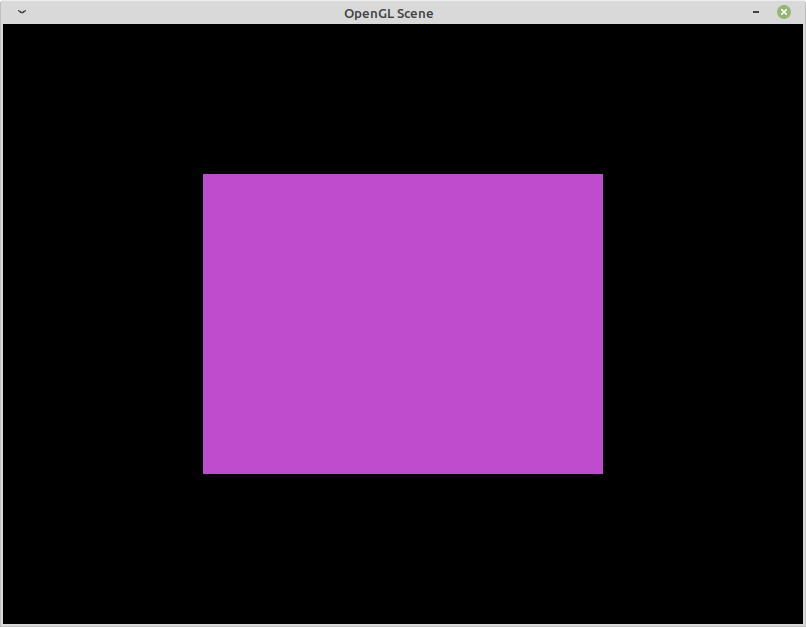
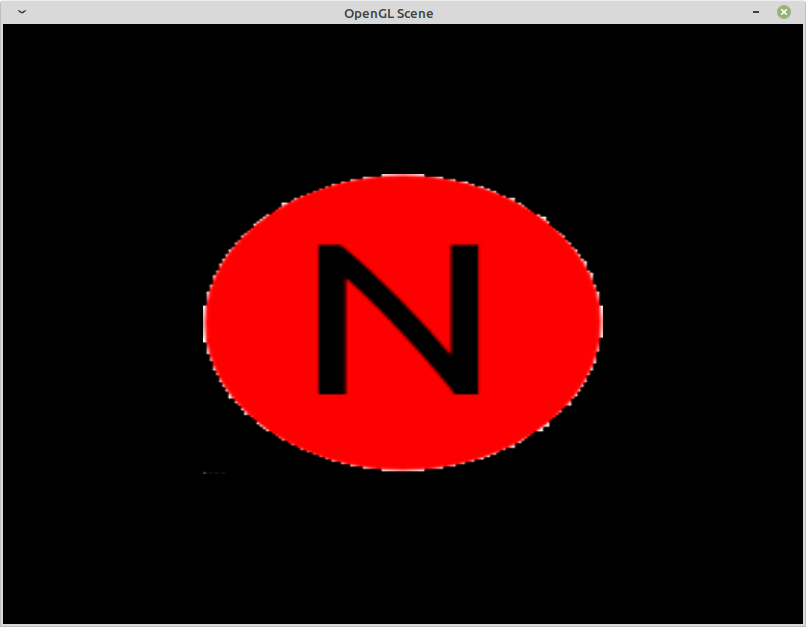
Adding support for textures.

Changed region(s): [[0.2481, 0.2727, 0.7754, 0.7576]]

diff --git a/src/main.cpp b/src/main.cpp
@@ -3,6 +3,7 @@
 //SDL Libraries
 #include <SDL2/SDL.h>
 #include <SDL2/SDL_syswm.h>
+#include <SDL2/SDL_image.h>
 
 //OpenGL Libraries
 #include <GL/glew.h>
@@ -22,6 +23,7 @@
 #include "indexbuffer.h"
 #include "vertexarray.h"
 #include "vertexbufferlayout.h"
+#include "texture.h"
 
 Shader* setupShaders(const char* vertexPath, const char* fragmentPath) {
 
@@ -50,6 +52,12 @@ int main(int argc, char* argv[]) {
 	if (SDL_Init(SDL_INIT_VIDEO | SDL_INIT_JOYSTICK) < 0) {
 		ERROR("The initialization of the SDL failed : %s\n", SDL_GetError());
 		return 0;
+	}
+
+	//init SDL_image
+	if (!(IMG_Init(IMG_INIT_PNG) & IMG_INIT_PNG)) {
+		ERROR("Could not load SDL_image.\n");
+		return EXIT_FAILURE;
 	}
 
 	//Create a Window
@@ -82,14 +90,22 @@ int main(int argc, char* argv[]) {
 
 		GLCall(glEnable(GL_DEPTH_TEST)); //Active the depth test
 
-
+		GLCall(glBlendFunc(GL_SRC_ALPHA, GL_ONE_MINUS_SRC_ALPHA));
+		GLCall(glEnable(GL_BLEND));
+		
 		float positions[] = {
-			-0.5f, -0.5f,
-			0.5f, -0.5f,
-			0.5f,  0.5f,
-
-			-0.5f,  0.5f
+			-0.5f, -0.5f, 0.0f, 0.0f,
+			 0.5f, -0.5f, 1.0f, 0.0f,
+			 0.5f,  0.5f, 1.0f, 1.0f,
+			-0.5f,  0.5f, 0.0f, 1.0f
 		};
+
+// 		float texturesPositions[] = {
+// 			0.0f, 0.0f,
+// 			1.0f, 0.0f,
+// 			1.0f, 1.0f,
+// 			0.0f, 1.0f
+// 		};
 
 		unsigned int indices[] = {
 			0, 1, 2,
@@ -97,9 +113,10 @@ int main(int argc, char* argv[]) {
 		};
 
 		VertexArray va;
-		VertexBuffer vb(positions, 4 * 2 * sizeof(float));
-		
+		VertexBuffer vb(positions, 4 * 4 * sizeof(float));
+
 		VertexBufferLayout layout;
+		layout.Push<float>(2);
 		layout.Push<float>(2);
 		va.addBuffer(vb, layout);
 
@@ -108,7 +125,11 @@ int main(int argc, char* argv[]) {
 		auto shader = setupShaders("Shaders/color.vert", "Shaders/color.frag");
 		shader->Bind();
 
-		shader->SetUniform4f("u_Color", 0.2f, 0.3f, 0.8f, 1.0f);
+		//shader->SetUniform4f("u_Color", 0.2f, 0.3f, 0.8f, 1.0f);
+
+		Texture texture(RESOURCE_FILE("NonoreveLogo.png"));
+		texture.Bind();
+		shader->SetUniform1i("u_Texture", 0);
 
 		float r = 0.0f;
 		float increment = 0.05f;
@@ -116,7 +137,7 @@ int main(int argc, char* argv[]) {
 		shader->Unbind();
 		vb.Unbind();
 		ib.Unbind();
-		
+
 		Renderer renderer;
 
 
@@ -142,12 +163,12 @@ int main(int argc, char* argv[]) {
 					//We can add more event, like listening for the keyboard or the mouse. See SDL_Event documentation for more details
 				}
 			}
-			
-			
+
+
 			renderer.Clear();
 
 			shader->Bind();
-			shader->SetUniform4f("u_Color", r, 0.3f, 0.8f, 1.0f);
+			//shader->SetUniform4f("u_Color", r, 0.3f, 0.8f, 1.0f);
 
 			renderer.Draw(va, ib, Shader(*shader));
 

diff --git a/src/texture.cpp b/src/texture.cpp
@@ -1,0 +1,64 @@
+/*
+ * Copyright 2020 Nonoreve noe.boonstra@gmail.com
+ *
+ * Licensed under the Apache License, Version 2.0 (the "License");
+ * you may not use this file except in compliance with the License.
+ * You may obtain a copy of the License at
+ *
+ *     http://www.apache.org/licenses/LICENSE-2.0
+ *
+ * Unless required by applicable law or agreed to in writing, software
+ * distributed under the License is distributed on an "AS IS" BASIS,
+ * WITHOUT WARRANTIES OR CONDITIONS OF ANY KIND, either express or implied.
+ * See the License for the specific language governing permissions and
+ * limitations under the License.
+ */
+
+#include "texture.h"
+#include <cstring>
+
+Texture::Texture(const std::string& path) : m_FilePath(path), m_LocalBuffer(nullptr), m_Width(0), m_Height(0), m_BPP(0) {
+	SDL_Surface* img = IMG_Load(path.c_str());
+	if (!img) {
+		std::cerr << "[SDL_image Error] Can't read file '" << path << "'." << std::endl;
+	}
+	m_LocalBuffer = SDL_ConvertSurfaceFormat(img, SDL_PIXELFORMAT_RGBA8888, 0);
+	SDL_FreeSurface(img);
+	m_Width = m_LocalBuffer->w;
+	m_Height = m_LocalBuffer->h;
+
+	GLCall(glGenTextures(1, &m_RendererID));
+	GLCall(glBindTexture(GL_TEXTURE_2D, m_RendererID));
+
+	GLCall(glTexParameteri(GL_TEXTURE_2D, GL_TEXTURE_MIN_FILTER, GL_LINEAR));
+	GLCall(glTexParameteri(GL_TEXTURE_2D, GL_TEXTURE_MAG_FILTER, GL_LINEAR));
+
+	GLCall(glTexParameteri(GL_TEXTURE_2D, GL_TEXTURE_WRAP_S, GL_CLAMP_TO_EDGE));
+	GLCall(glTexParameteri(GL_TEXTURE_2D, GL_TEXTURE_WRAP_T, GL_CLAMP_TO_EDGE));
+
+	unsigned char* flippedImg = (unsigned char*)malloc(m_Width * m_Height * 4); // nbPixels * nbChannels * bytePerChannel(1)
+	const unsigned int SIZE_ROW = m_Width * 4;
+	for(int row = 0; row < m_Height; row++){
+		// copying an entire row
+		memcpy(flippedImg + (m_Height - row) * SIZE_ROW, (unsigned char*)m_LocalBuffer->pixels + row * SIZE_ROW, SIZE_ROW);
+	}
+	glTexImage2D(GL_TEXTURE_2D, 0, GL_RGBA8, m_Width, m_Height, 0, GL_RGBA, GL_UNSIGNED_BYTE, (GLvoid*)flippedImg);
+
+	GLCall(glBindTexture(GL_TEXTURE_2D, 0));
+	if (m_LocalBuffer)
+		SDL_FreeSurface(m_LocalBuffer);
+	
+}
+
+Texture::~Texture() {
+	GLCall(glDeleteTextures(1, &m_RendererID));
+}
+
+void Texture::Bind(unsigned int slot) const {
+	GLCall(glActiveTexture(GL_TEXTURE0 + slot));
+	GLCall(glBindTexture(GL_TEXTURE_2D, m_RendererID));
+}
+
+void Texture::Unbind() const {
+	GLCall(glBindTexture(GL_TEXTURE_2D, 0));
+}

diff --git a/include/Shader.h b/include/Shader.h
@@ -35,8 +35,9 @@ class Shader
 		void Bind() const;
 		void Unbind() const;
 		
-		int GetUniformLocation(const std::string& name);
 		void SetUniform4f(const std::string& name, float v0, float v1, float v2, float v3);
+		void SetUniform1f(const std::string& name, float value);
+		void SetUniform1i(const std::string& name, int value);
 
         /** \brief create a shader from a vertex and a fragment file.
          * \param vertexFile the vertex file.
@@ -56,7 +57,8 @@ class Shader
         GLuint m_programID; /*!< The shader   program ID*/
         GLuint m_vertexID;  /*!< The vertex   shader  ID*/
         GLuint m_fragID;    /*!< The fragment shader  ID*/
-        std::unordered_map<std::string, unsigned int> m_UniformLocationCache;
+        std::unordered_map<std::string, int> m_UniformLocationCache;
+		int GetUniformLocation(const std::string& name);
 
         /* \brief Bind the attributes to known locations (vPosition to 0, vColor to 1 for example)*/
         virtual void bindAttributes();

diff --git a/include/texture.h b/include/texture.h
@@ -14,25 +14,31 @@
  * limitations under the License.
  */
 
-#ifndef VERTEXARRAY_H
-#define VERTEXARRAY_H
+#ifndef TEXTURE_H
+#define TEXTURE_H
 
-#include "vertexbuffer.h"
+#include "renderer.h"
+#include <SDL2/SDL_image.h>
 
-class VertexBufferLayout;
+#define __RESSOURCE_FILE "../resources/"
+#define RESOURCE_FILE(x) __RESSOURCE_FILE x
 
-class VertexArray {
+class Texture {
 private:
 	unsigned int m_RendererID;
+	std::string m_FilePath;
+	SDL_Surface* m_LocalBuffer;
+	int m_Width, m_Height, m_BPP;
 	
 public:
-	VertexArray();
-	~VertexArray();
+	Texture(const std::string& path);
+	~Texture();
 	
-	void addBuffer(const VertexBuffer& vb, const VertexBufferLayout& layout);
-	
-	void Bind() const;
+	void Bind(unsigned int slot = 0) const;
 	void Unbind() const;
+	
+	inline int GetWidth() const {return m_Width;}
+	inline int GetHeight() const {return m_Height;}
 };
 
-#endif // VERTEXARRAY_H
+#endif // TEXTURE_H

diff --git a/src/Shader.cpp b/src/Shader.cpp
@@ -138,3 +138,11 @@ int Shader::GetUniformLocation(const std::string& name) {
 void Shader::SetUniform4f(const std::string& name, float v0, float v1, float v2, float v3) {
 	GLCall(glUniform4f(GetUniformLocation(name), v0, v1, v2, v3));
 }
+
+void Shader::SetUniform1f(const std::string& name, float value) {
+	GLCall(glUniform1f(GetUniformLocation(name), value));
+}
+
+void Shader::SetUniform1i(const std::string& name, int value) {
+	GLCall(glUniform1i(GetUniformLocation(name), value));
+}

diff --git a/src/vertexarray.cpp b/src/vertexarray.cpp
@@ -1,5 +1,5 @@
 /*
- * Copyright 2020 <copyright holder> <email>
+ * Copyright 2020 Nonoreve noe.boonstra@gmail.com
  *
  * Licensed under the Apache License, Version 2.0 (the "License");
  * you may not use this file except in compliance with the License.
